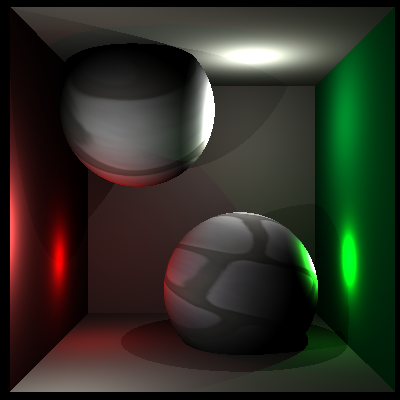
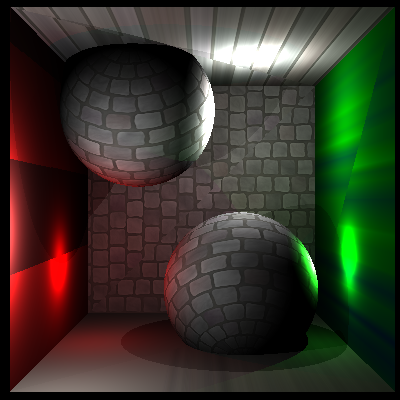
UPDATE: use badass transformation matrix for everything

diff --git a/rt/coordmappers/cylindrical.cpp b/rt/coordmappers/cylindrical.cpp
@@ -2,6 +2,7 @@
 #include <core/assert.h>
 #include <rt/intersection.h>
 
+
 namespace rt
 {
 	CylindricalCoordMapper::CylindricalCoordMapper(const Point & origin, const Vector & longitudinalAxis, const Vector & polarAxis)
@@ -10,15 +11,15 @@ namespace rt
 		lScale = longitudinalAxis.length();
 		pScale = polarAxis.length();
 		thirdZ = cross(this->polarAxis, this->longitudinalAxis).normalize();
-		this->longitudinalAxis = cross(thirdZ, this->polarAxis).normalize();
+		transformation = Matrix::system(longitudinalAxis.normalize(), polarAxis.normalize(), thirdZ).invert();
+		transformation = product(transformation, translation(Point(-origin.x, -origin.y, -origin.z)));	
 	}
 	Point CylindricalCoordMapper::getCoords(const Intersection & hit) const
 	{
-		Point local = hit.local();
-		Vector v = local - origin;
-		v = Vector(dot(v, polarAxis), dot(v, longitudinalAxis), dot(v, thirdZ));
-		float phi = atan2(v.y, v.x);
-		return Point (phi / (2 * pi * pScale), v.z / lScale, 0);
-
+		Point translatedPoint = transformation * hit.local();
+		float x = translatedPoint.x;
+		float y = translatedPoint.y;
+		float phi = atan2(y,x);
+		return Point (phi / (2 * pi * pScale), translatedPoint.z / lScale, 0);
 	}
 }

diff --git a/rt/coordmappers/spherical.cpp b/rt/coordmappers/spherical.cpp
@@ -12,16 +12,15 @@ namespace rt
 		zScale = zenith.length();
 		aScale = azimuthRef.length();
 		thirdZ = cross(this->azimuthRef, this->zenith).normalize();
-		this->zenith = cross(thirdZ, this->azimuthRef).normalize();
+		transformation = Matrix::system(zenith.normalize(), azimuthRef.normalize(), thirdZ).invert();
+		transformation = product(transformation, translation(Point(-origin.x, -origin.y, -origin.z)));
 	}
 	Point SphericalCoordMapper::getCoords(const Intersection & hit) const
 	{
-		Point local = hit.local();
-		Vector v = local - origin;
-		v = Vector(dot(v, azimuthRef), dot(v, zenith), dot(v, thirdZ));
-		float phi = atan2(v.y, v.x);
-		float r = v.length();
-		float theta = acos(v.z / r);
+		Point translatedPoint = transformation * hit.local();
+		float phi = atan2(translatedPoint.y, translatedPoint.x);
+		float r = sqrt(translatedPoint.x * translatedPoint.x + translatedPoint.y * translatedPoint.y+ translatedPoint.z * translatedPoint.z);
+		float theta = acos(translatedPoint.z / r);
 		return Point (phi / (2 * pi * aScale), theta / (pi * zScale), 0);
 	}
 }

diff --git a/rt/coordmappers/spherical.h b/rt/coordmappers/spherical.h
@@ -4,6 +4,7 @@
 #include <core/point.h>
 #include <core/vector.h>
 #include <rt/coordmappers/coordmapper.h>
+#include <core/matrix.h>
 
 namespace rt {
 
@@ -17,8 +18,9 @@ private:
     Point origin;
     Vector zenith; //Y
     Vector azimuthRef; //X
-    Vector thirdZ; //Z
+    Vector thirdZ; //z
     float aScale, zScale;
+    Matrix transformation;
 };
 
 }

diff --git a/rt/coordmappers/cylindrical.h b/rt/coordmappers/cylindrical.h
@@ -4,6 +4,8 @@
 #include <core/point.h>
 #include <core/vector.h>
 #include <rt/coordmappers/coordmapper.h>
+#include <core/matrix.h>
+
 namespace rt {
 
 class Intersection;
@@ -18,6 +20,7 @@ private:
     Vector polarAxis;
     float lScale, pScale;
     Vector thirdZ;
+    Matrix transformation;
 };
 
 }

diff --git a/core/matrix.cpp b/core/matrix.cpp
@@ -193,5 +193,13 @@ namespace rt {
 		return a * scalar;
 	}
 
+	Matrix translation(Point t)
+	{
+		return Matrix(Float4(1.0f, 0.0f, 0.0f, t.x),
+				Float4(0.0f, 1.0f, 0.0f, t.y),
+				Float4(0.0f, 0.0f, 1.0f, t.z),
+				Float4(0.0f, 0.0f, 0.0f, 1.0f));
+	}
+
 }
 

diff --git a/core/matrix.h b/core/matrix.h
@@ -40,6 +40,7 @@ public:
 Matrix product(const Matrix& a, const Matrix& b);
 Matrix operator*(const Matrix& a, float scalar);
 Matrix operator*(float scalar, const Matrix& a);
+Matrix translation(Point t);
 
 }
 
